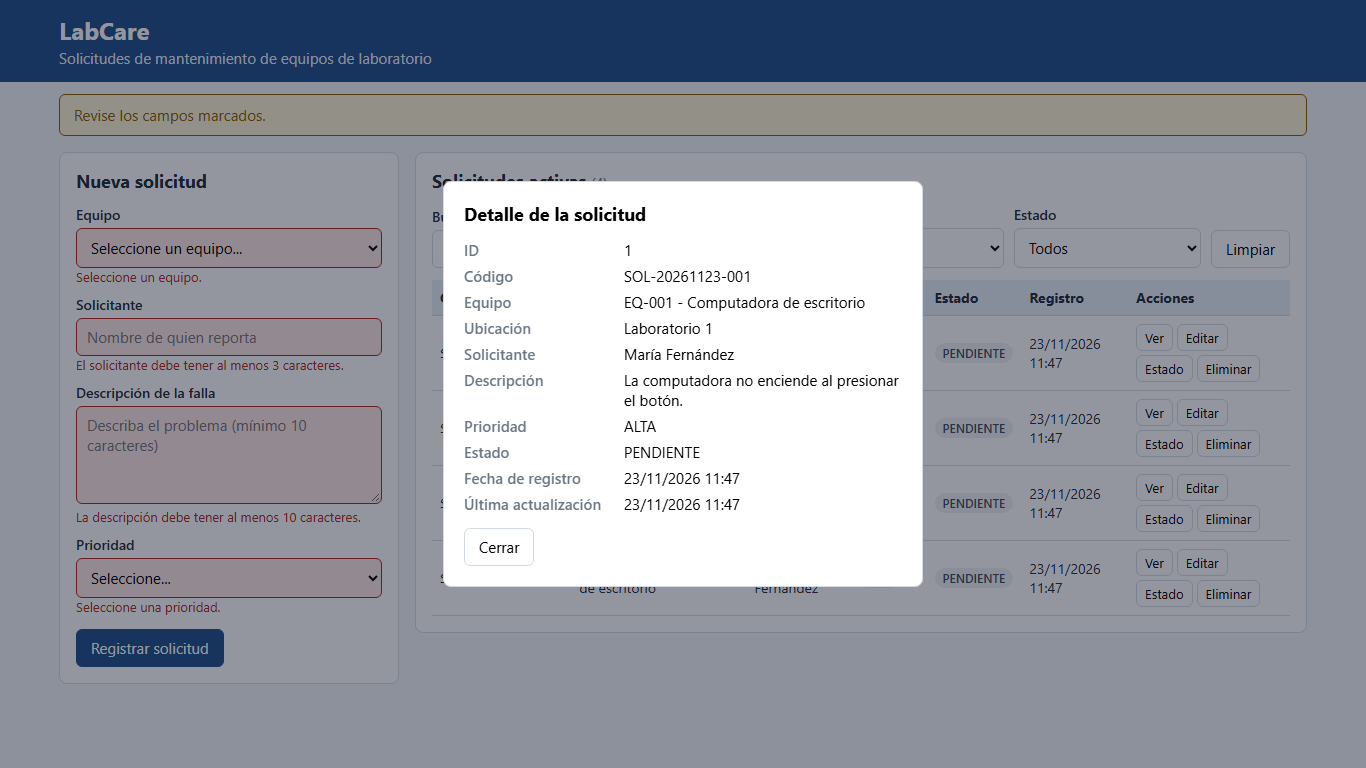
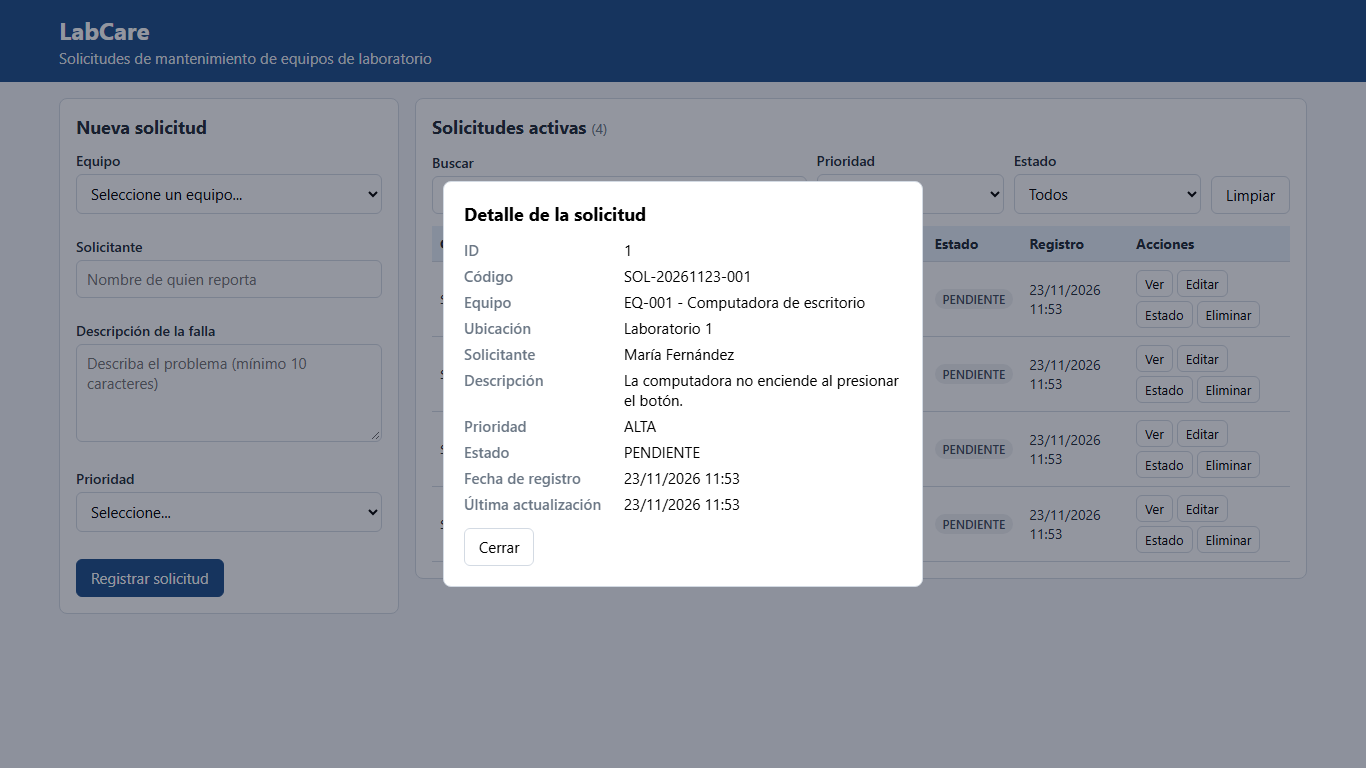
test: regenera las capturas desde un formulario limpio

diff --git a/pruebas/capturas-ui.js b/pruebas/capturas-ui.js
@@ -73,8 +73,9 @@ async function main() {
   await pagina.fill('#descripcion', 'Falla');
   await pagina.click('#btn-guardar');
   await captura('04-validacion-interfaz');
-  await pagina.click('#btn-cancelar').catch(() => {});
-  await pagina.evaluate(() => document.getElementById('form-solicitud').reset());
+  // Se recarga la pantalla para seguir el recorrido desde un formulario limpio.
+  await pagina.reload();
+  await pagina.waitForSelector('#cuerpo-tabla .codigo');
 
   // Detalle
   await fila('María Fernández').getByRole('button', { name: 'Ver' }).click();
